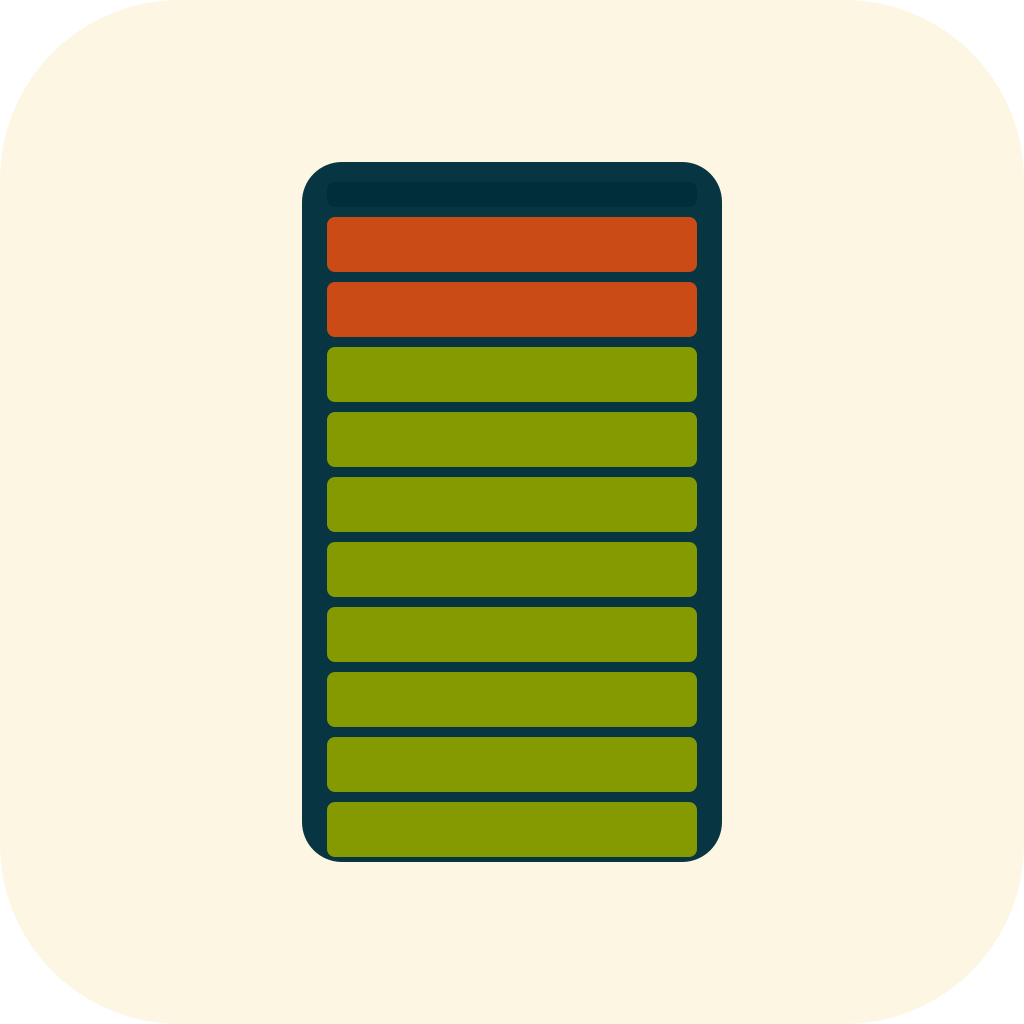
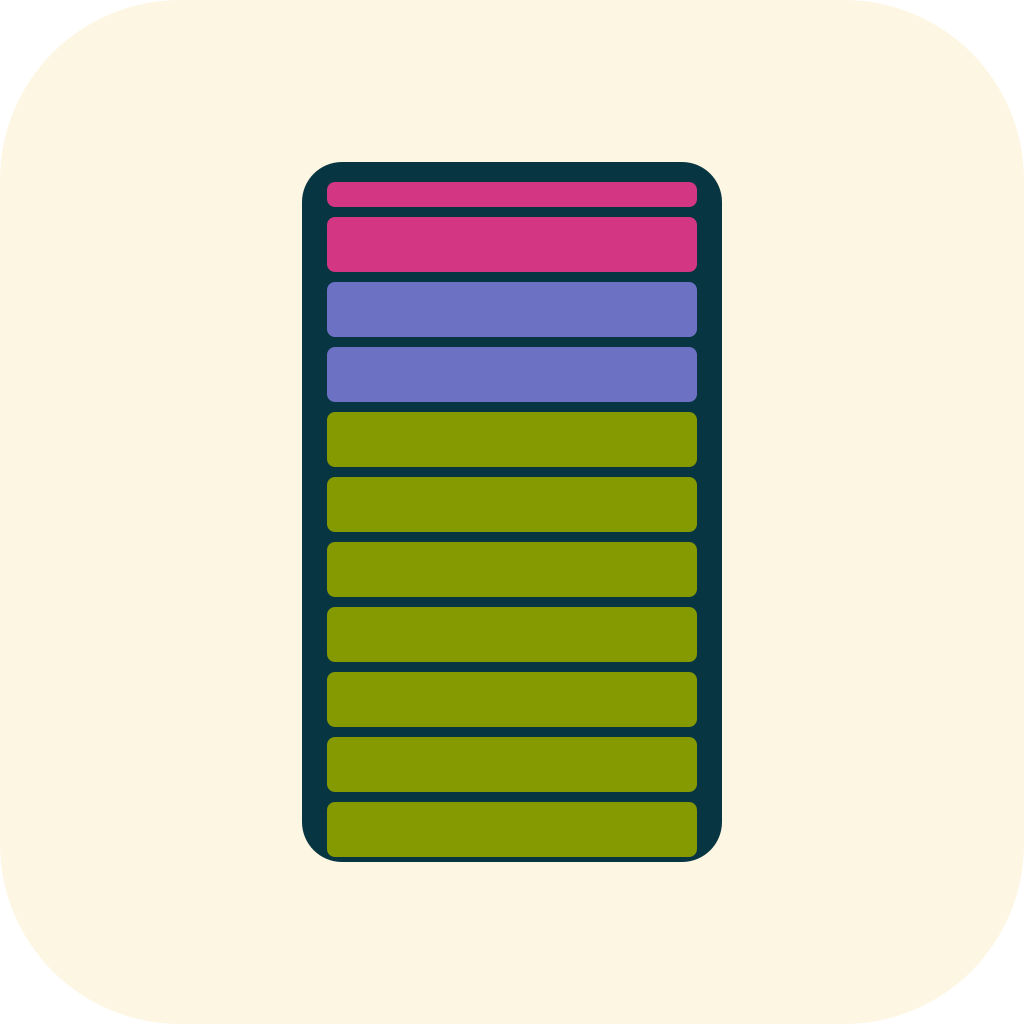
Improve UX with permission text, colorful meter, wakelock, and performance
Permission Screen:
- Update description: "Fred is a timer that measures noise levels..."
- Add tagline for English: "Fred means peace in Norwegian"
- Button text: "Fred needs microphone access" / "Fred trenger tilgang til mikrofon"

Decibel Meter Colors:
- Replace orange with colorful gradient: green → violet → magenta
- Bottom 60%: Green (#859900)
- Middle 20%: Violet (#6C71C4)
- Top 20%: Magenta (#D33682)
- Scale meter to threshold (fills completely at 80dB instead of 100dB)

App Icon:
- Revert to meter-only design with new colorful scheme
- Clear visual representation of app's core feature

Screen Wakelock:
- Add wakelock_plus package
- Keep display on while timer is running
- Automatically disable on stop, pause, complete, or dispose

Confetti Performance & Fixes:
- Freeze settled particles (speed < 0.1, 20+ particles above)
- Frozen particles remain visible but stop physics simulation
- Limit active particles to 200, total to 2000
- Fix ground position: now 50px from bottom for immediate visible buildup
- Spawning stops at limit instead of removing old particles

UI Polish:
- Purple bold app title in header
- Generated localization files

Changed region(s): [[0.3125, 0.1562, 0.6875, 0.4062]]

diff --git a/lib/screens/timer_screen.dart b/lib/screens/timer_screen.dart
@@ -7,6 +7,7 @@ import '../l10n/app_localizations.dart';
 import 'package:noise_meter/noise_meter.dart';
 import 'package:permission_handler/permission_handler.dart';
 import 'package:vibration/vibration.dart';
+import 'package:wakelock_plus/wakelock_plus.dart';
 import '../models/app_settings.dart';
 import '../theme/app_colors.dart';
 import '../widgets/confetti_physics.dart';
@@ -153,6 +154,7 @@ class _TimerScreenState extends State<TimerScreen> with TickerProviderStateMixin
 
   @override
   void dispose() {
+    WakelockPlus.disable();
     _stopMonitoring();
     _timer?.cancel();
     _confettiSpawnTimer?.cancel();
@@ -373,6 +375,9 @@ class _TimerScreenState extends State<TimerScreen> with TickerProviderStateMixin
       _isCompleted = false;
     });
 
+    // Keep screen on while timer is running
+    WakelockPlus.enable();
+
     _startMonitoring();
 
     _timer = Timer.periodic(const Duration(seconds: 1), (timer) {
@@ -393,6 +398,7 @@ class _TimerScreenState extends State<TimerScreen> with TickerProviderStateMixin
       _isRunning = false;
     });
     _timer?.cancel();
+    WakelockPlus.disable();
     _stopMonitoring();
     _decibelReadings.clear();
     _longTermReadings.clear();
@@ -408,6 +414,7 @@ class _TimerScreenState extends State<TimerScreen> with TickerProviderStateMixin
       _remainingSeconds = widget.settings.timerDurationMinutes * 60;
     });
     _timer?.cancel();
+    WakelockPlus.disable();
     _stopMonitoring();
     _decibelReadings.clear();
     _longTermReadings.clear();
@@ -426,6 +433,7 @@ class _TimerScreenState extends State<TimerScreen> with TickerProviderStateMixin
 
   void _completeTimer() {
     _timer?.cancel();
+    WakelockPlus.disable();
     _stopMonitoring();
     _decibelReadings.clear();
     _longTermReadings.clear();
@@ -453,20 +461,23 @@ class _TimerScreenState extends State<TimerScreen> with TickerProviderStateMixin
         return;
       }
 
-      // Spawn 3 new particles from random positions at the top
-      for (int i = 0; i < 3; i++) {
-        final random = Random();
-        final x = random.nextDouble() * screenSize.width;
-        final color = randomConfettiColor();
-        final size = random.nextDouble() * 12 + 6;
-        final shape = randomShape();
+      // Only spawn if we haven't hit the total limit
+      if (_confettiPhysics!.confettiBodies.length < 2000) {
+        // Spawn 3 new particles from random positions at the top
+        for (int i = 0; i < 3; i++) {
+          final random = Random();
+          final x = random.nextDouble() * screenSize.width;
+          final color = randomConfettiColor();
+          final size = random.nextDouble() * 12 + 6;
+          final shape = randomShape();
 
-        _confettiPhysics!.addConfetti(
-          Offset(x, -20),
-          color,
-          size,
-          shape,
-        );
+          _confettiPhysics!.addConfetti(
+            Offset(x, -20),
+            color,
+            size,
+            shape,
+          );
+        }
       }
     });
 
@@ -722,8 +733,8 @@ class _TimerScreenState extends State<TimerScreen> with TickerProviderStateMixin
   }
 
   Widget _buildDecibelMeter() {
-    // Calculate percentage based on a reasonable scale (0-100 dB)
-    final percentage = (_currentDecibels / 100).clamp(0.0, 1.0);
+    // Scale to threshold - bar fills completely when threshold is reached
+    final percentage = (_currentDecibels / widget.settings.decibelThreshold).clamp(0.0, 1.0);
     final isWarning = _currentDecibels >= widget.settings.warningThreshold;
     final isOverThreshold = _currentDecibels >= widget.settings.decibelThreshold;
 
@@ -776,9 +787,9 @@ class _TimerScreenState extends State<TimerScreen> with TickerProviderStateMixin
                 Color blockColor;
                 if (isFilled) {
                   if (blockIndex >= totalBlocks * 0.8) {
-                    blockColor = const Color(0xFFDC322F); // Red (top 20%)
+                    blockColor = const Color(0xFFD33682); // Magenta (top 20%)
                   } else if (blockIndex >= totalBlocks * 0.6) {
-                    blockColor = const Color(0xFFCB4B16); // Orange (60-80%)
+                    blockColor = const Color(0xFF6C71C4); // Violet (60-80%)
                   } else {
                     blockColor = const Color(0xFF859900); // Green (bottom 60%)
                   }

diff --git a/lib/widgets/confetti_physics.dart b/lib/widgets/confetti_physics.dart
@@ -10,6 +10,10 @@ class ConfettiPhysicsWorld {
   // Scale factor: pixels to meters (Box2D works in meters)
   static const double pixelsPerMeter = 100.0;
 
+  // Performance: limit total particles and freeze settled ones
+  static const int maxActiveParticles = 200;
+  static const int maxTotalParticles = 2000; // Allow larger pile to build up
+
   ConfettiPhysicsWorld({required this.screenSize}) {
     // Create physics world with gravity (10 m/s² is realistic earth gravity)
     world = box2d.World(box2d.Vector2(0, 20.0));
@@ -41,15 +45,19 @@ class ConfettiPhysicsWorld {
   }
 
   void _createGround() {
-    // Place ground at the bottom of the screen (top of ground box = screenSize.height)
+    // Place ground so confetti lands visibly at the bottom of the screen
+    // Put the top surface 50 pixels from the bottom to ensure visibility
+    final groundThickness = 100.0; // Thick ground to catch everything
+    final groundYPixels = screenSize.height - 50 + (groundThickness / 2);
+
     final groundDef = box2d.BodyDef()
-      ..position = _toPhysics(Offset(screenSize.width / 2, screenSize.height))
+      ..position = _toPhysics(Offset(screenSize.width / 2, groundYPixels))
       ..type = box2d.BodyType.static;
 
     final groundBody = world.createBody(groundDef);
 
     final groundBox = box2d.PolygonShape()
-      ..setAsBox(_toPhysicsScalar(screenSize.width / 2), _toPhysicsScalar(5.0), box2d.Vector2.zero(), 0);
+      ..setAsBox(_toPhysicsScalar(screenSize.width / 2), _toPhysicsScalar(groundThickness / 2), box2d.Vector2.zero(), 0);
 
     final fixtureDef = box2d.FixtureDef(groundBox)
       ..friction = 0.6
@@ -123,6 +131,51 @@ class ConfettiPhysicsWorld {
   void step(double dt) {
     // Step the physics simulation
     world.stepDt(dt);
+
+    // Freeze particles that have settled (low velocity + many particles above)
+    _freezeSettledParticles();
+
+    // Note: We don't remove frozen particles - they stay visible as part of the pile
+    // The spawning code in timer_screen.dart stops spawning when we hit maxTotalParticles
+  }
+
+  void _freezeSettledParticles() {
+    // Count active (dynamic) particles
+    int activeCount = confettiBodies
+        .where((c) => c.body.bodyType == box2d.BodyType.dynamic)
+        .length;
+
+    // If we have too many active particles, freeze some that are settled
+    if (activeCount > maxActiveParticles) {
+      for (var confetti in confettiBodies) {
+        if (confetti.body.bodyType != box2d.BodyType.dynamic) continue;
+
+        // Check if particle is settled (very low velocity)
+        final velocity = confetti.body.linearVelocity;
+        final speed = velocity.length;
+
+        if (speed < 0.1) {
+          // Count particles above this one
+          int particlesAbove = 0;
+          final thisY = confetti.body.position.y;
+
+          for (var other in confettiBodies) {
+            if (other.body.position.y < thisY) {
+              particlesAbove++;
+            }
+          }
+
+          // Freeze if there are many particles above (this one is buried)
+          if (particlesAbove > 20) {
+            confetti.body.setType(box2d.BodyType.static);
+            activeCount--;
+
+            // Stop once we're under the limit
+            if (activeCount <= maxActiveParticles) break;
+          }
+        }
+      }
+    }
   }
 
   void dispose() {

diff --git a/lib/l10n/app_localizations.dart b/lib/l10n/app_localizations.dart
@@ -119,13 +119,13 @@ abstract class AppLocalizations {
   /// Description of why microphone access is needed
   ///
   /// In en, this message translates to:
-  /// **'This app needs microphone access to monitor noise levels and keep track of quiet time.'**
+  /// **'Fred is a timer that measures noise levels. If the sound level gets too high, the timer resets.\n\nFred means peace in Norwegian.'**
   String get microphoneAccessDescription;
 
   /// Button to grant microphone permission
   ///
   /// In en, this message translates to:
-  /// **'Grant Permission'**
+  /// **'Fred needs microphone access'**
   String get grantPermission;
 
   /// Dialog title for permission settings

diff --git a/lib/theme/app_theme.dart b/lib/theme/app_theme.dart
@@ -27,9 +27,14 @@ class AppTheme {
       ),
       appBarTheme: const AppBarTheme(
         backgroundColor: Color(0xFFFDF6E3), // Solarized base3 (cream)
-        foregroundColor: Color(0xFF073642), // Solarized base02 (dark blue-gray)
+        foregroundColor: AppColors.violet, // Purple title
         elevation: 0,
         centerTitle: true,
+        titleTextStyle: TextStyle(
+          fontSize: 20,
+          fontWeight: FontWeight.bold,
+          color: AppColors.violet,
+        ),
       ),
       elevatedButtonTheme: ElevatedButtonThemeData(
         style: ElevatedButton.styleFrom(

diff --git a/lib/l10n/app_localizations_en.dart b/lib/l10n/app_localizations_en.dart
@@ -19,10 +19,10 @@ class AppLocalizationsEn extends AppLocalizations {
 
   @override
   String get microphoneAccessDescription =>
-      'This app needs microphone access to monitor noise levels and keep track of quiet time.';
+      'Fred is a timer that measures noise levels. If the sound level gets too high, the timer resets.\n\nFred means peace in Norwegian.';
 
   @override
-  String get grantPermission => 'Grant Permission';
+  String get grantPermission => 'Fred needs microphone access';
 
   @override
   String get microphonePermissionRequired => 'Microphone Permission Required';

diff --git a/lib/l10n/app_localizations_nb.dart b/lib/l10n/app_localizations_nb.dart
@@ -19,10 +19,10 @@ class AppLocalizationsNb extends AppLocalizations {
 
   @override
   String get microphoneAccessDescription =>
-      'Denne appen trenger tilgang til mikrofonen for å overvåke støynivå og holde orden på stilletid.';
+      'Fred er en timer som måler støynivå. Hvis lydnivå blir for høyt så restartes timer.';
 
   @override
-  String get grantPermission => 'Gi tilgang';
+  String get grantPermission => 'Fred trenger tilgang til mikrofon';
 
   @override
   String get microphonePermissionRequired => 'Mikrofontilgang kreves';
